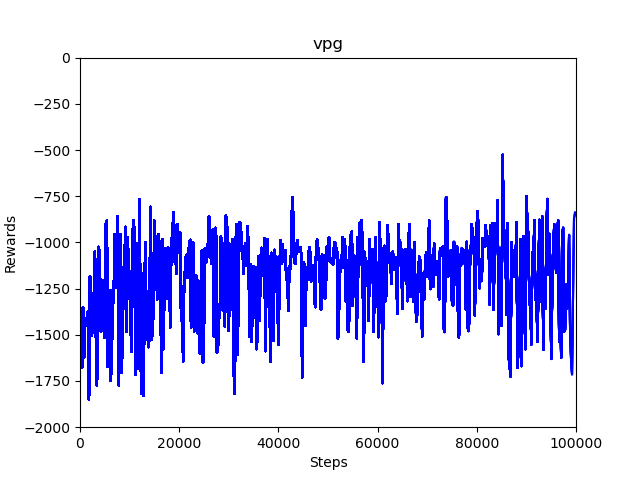
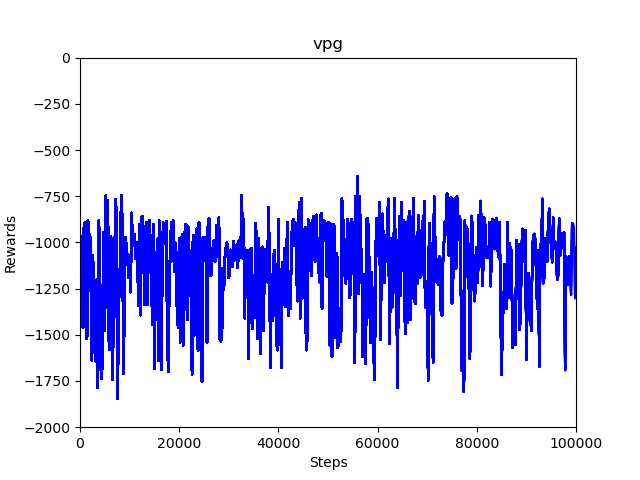
Tune number of on-policy value updates

Changed region(s): [[0.125, 0.3125, 0.9062, 0.8438]]

diff --git a/models.py b/models.py
@@ -6,7 +6,7 @@ from torch.distributions.transforms import AffineTransform, TanhTransform
 
 
 class Actor(nn.Module):
-  def __init__(self, observation_size, action_size, hidden_size, stochastic=True, layer_norm=False, initial_policy_log_std_dev=-0.):
+  def __init__(self, observation_size, action_size, hidden_size, stochastic=True, layer_norm=False, initial_policy_log_std_dev=0.0):
     super().__init__()
     layers = [nn.Linear(observation_size, hidden_size), nn.Tanh(), nn.Linear(hidden_size, hidden_size), nn.Tanh(), nn.Linear(hidden_size, action_size)]
     if layer_norm:
@@ -54,7 +54,7 @@ class Critic(nn.Module):
 
 
 class ActorCritic(nn.Module):
-  def __init__(self, observation_size, action_size, hidden_size, initial_policy_log_std_dev=-0.):
+  def __init__(self, observation_size, action_size, hidden_size, initial_policy_log_std_dev=0.0):
     super().__init__()
     self.actor = Actor(observation_size, action_size, hidden_size, stochastic=True, initial_policy_log_std_dev=initial_policy_log_std_dev)
     self.critic = Critic(observation_size, action_size, hidden_size)

diff --git a/hyperparams.py b/hyperparams.py
@@ -8,7 +8,7 @@ DISCOUNT = 0.99
 EPSILON = 0.05
 ENTROPY_WEIGHT = 0.2
 HIDDEN_SIZE = 32
-INITIAL_POLICY_LOG_STD_DEV = -0.0
+INITIAL_POLICY_LOG_STD_DEV = 0.0
 KL_LIMIT = 0.05
 LEARNING_RATE = 0.001
 MAX_STEPS = 100000
@@ -26,4 +26,4 @@ TRACE_DECAY = 0.97
 UPDATE_INTERVAL = 1
 UPDATE_START = 10000
 TEST_INTERVAL = 1000
-VALUE_EPOCHS = 60
+VALUE_EPOCHS = 5
